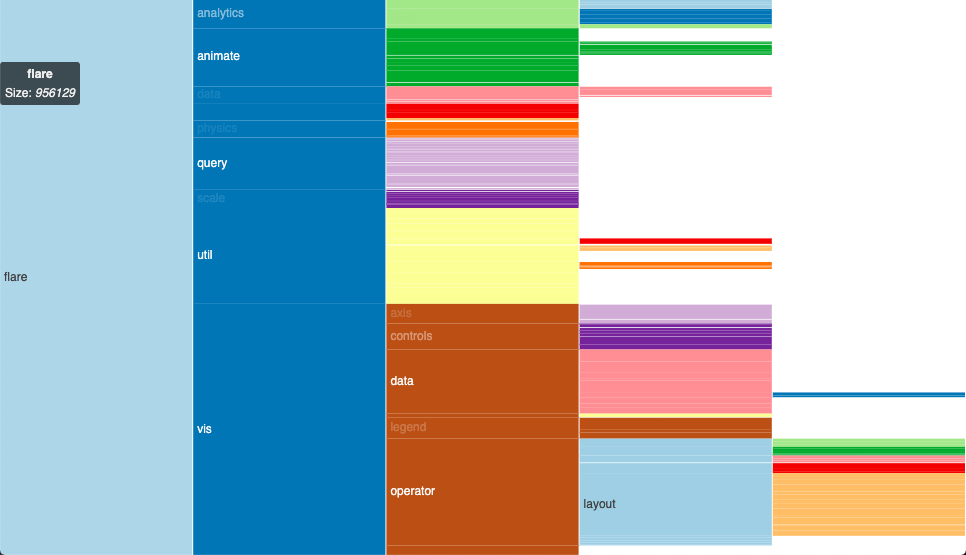
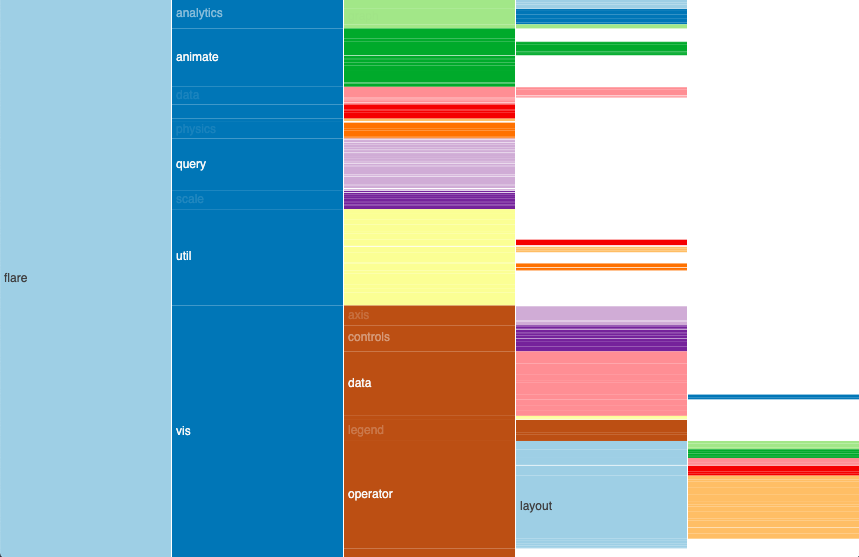
Swap preview img

diff --git a/README.md b/README.md
@@ -8,7 +8,7 @@ icicle-chart
 A partition / icicle interactive chart web component for visualizing hierarchical data.
 
 <p align="center">
-     <a href="https://vasturiano.github.io/icicle-chart/example/flare"><img width="80%" src="https://vasturiano.github.io/icicle-chart/example/preview.png"></a>
+     <a href="https://vasturiano.github.io/icicle-chart/example/flare"><img width="90%" src="https://vasturiano.github.io/icicle-chart/example/preview.png"></a>
 </p>
 
 Also called a partition chart or a flame chart, an icicle chart visualizes a hierarchical data structure where nodes of a tree are represented by adjacent rectangles layed out progressively according to their depth. 
